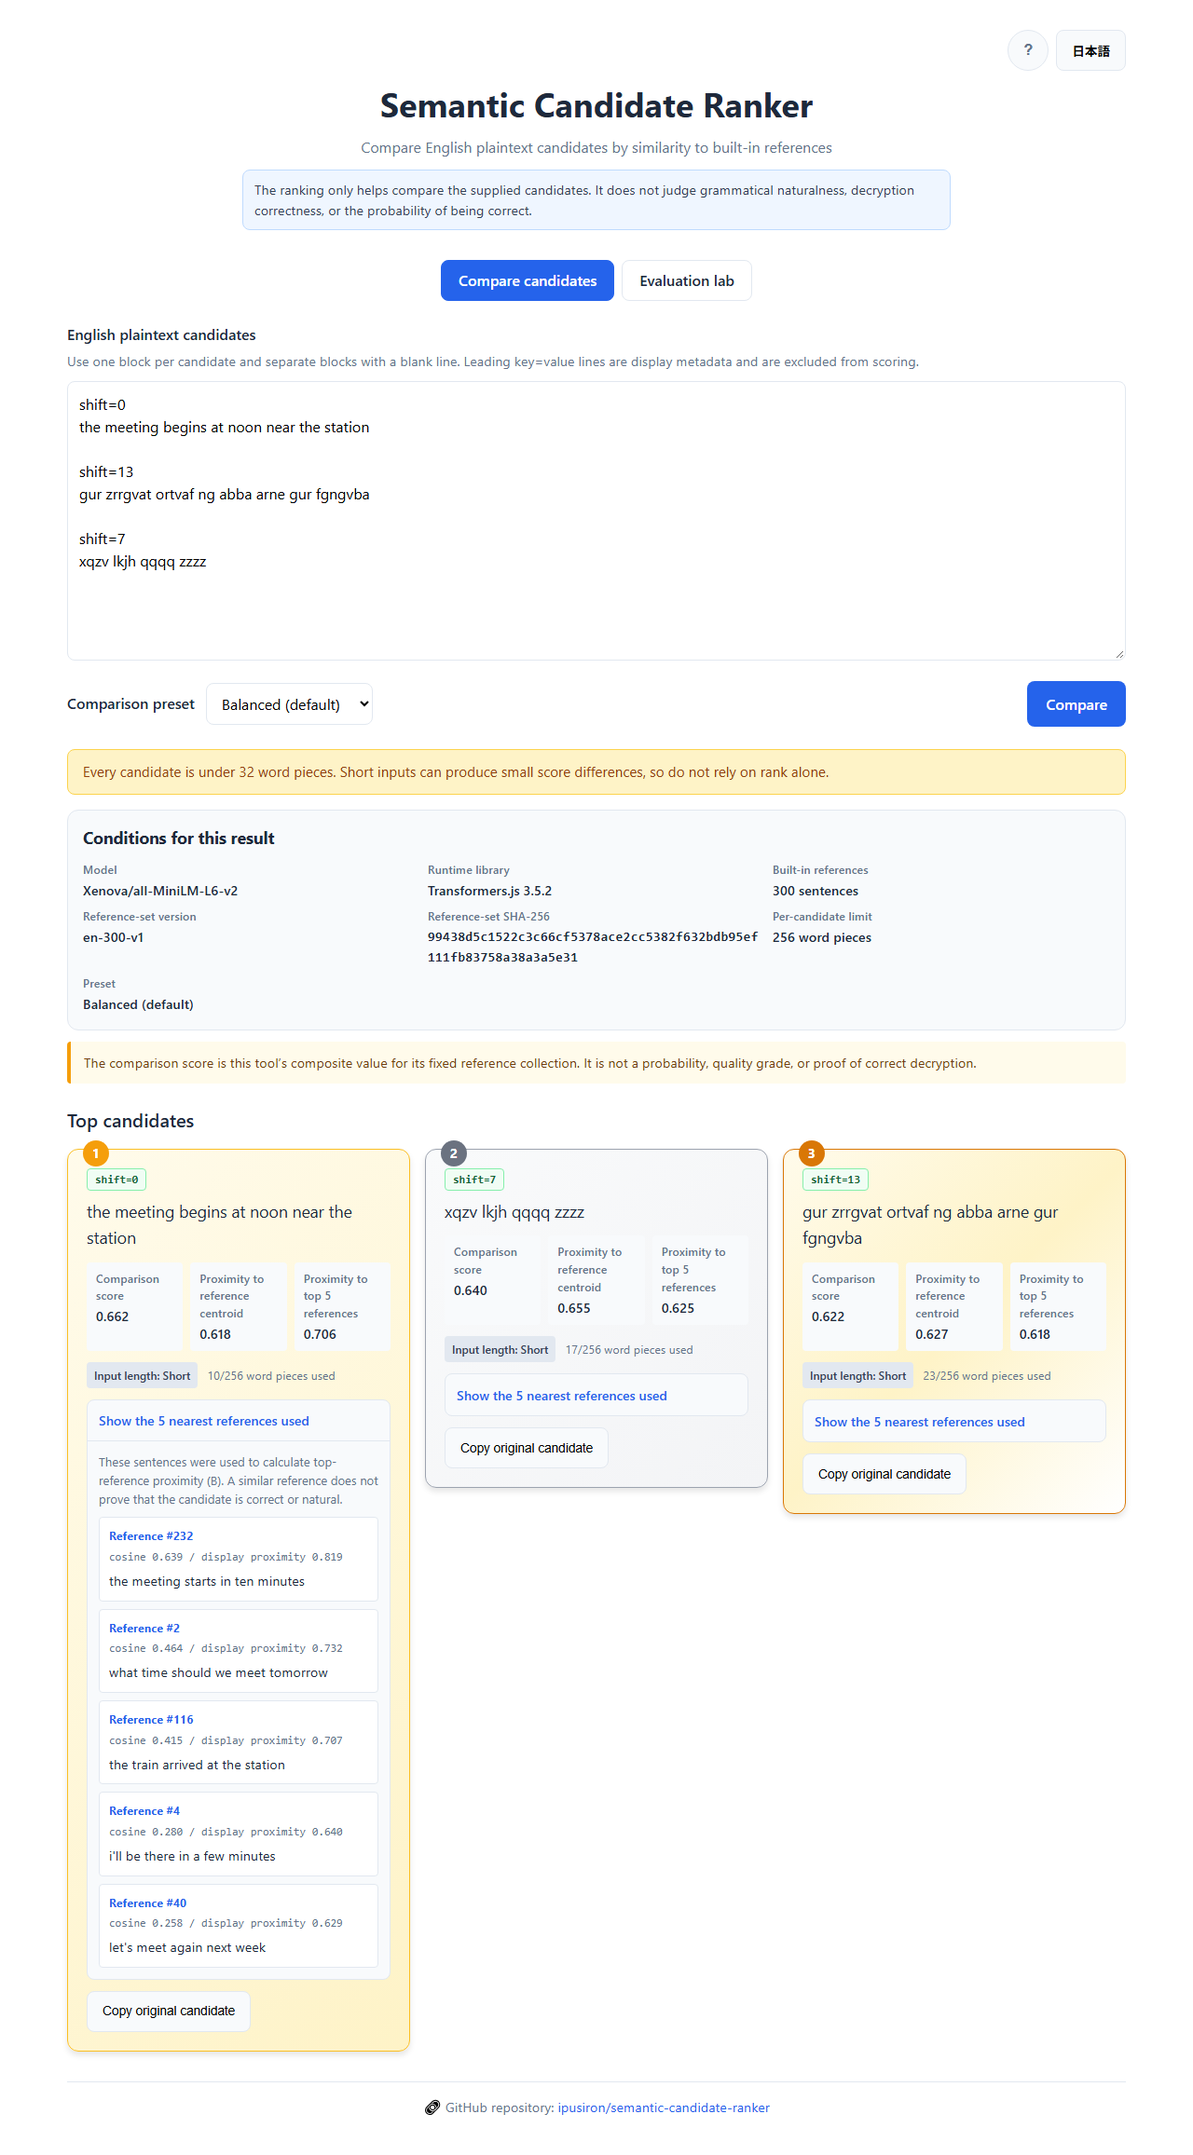
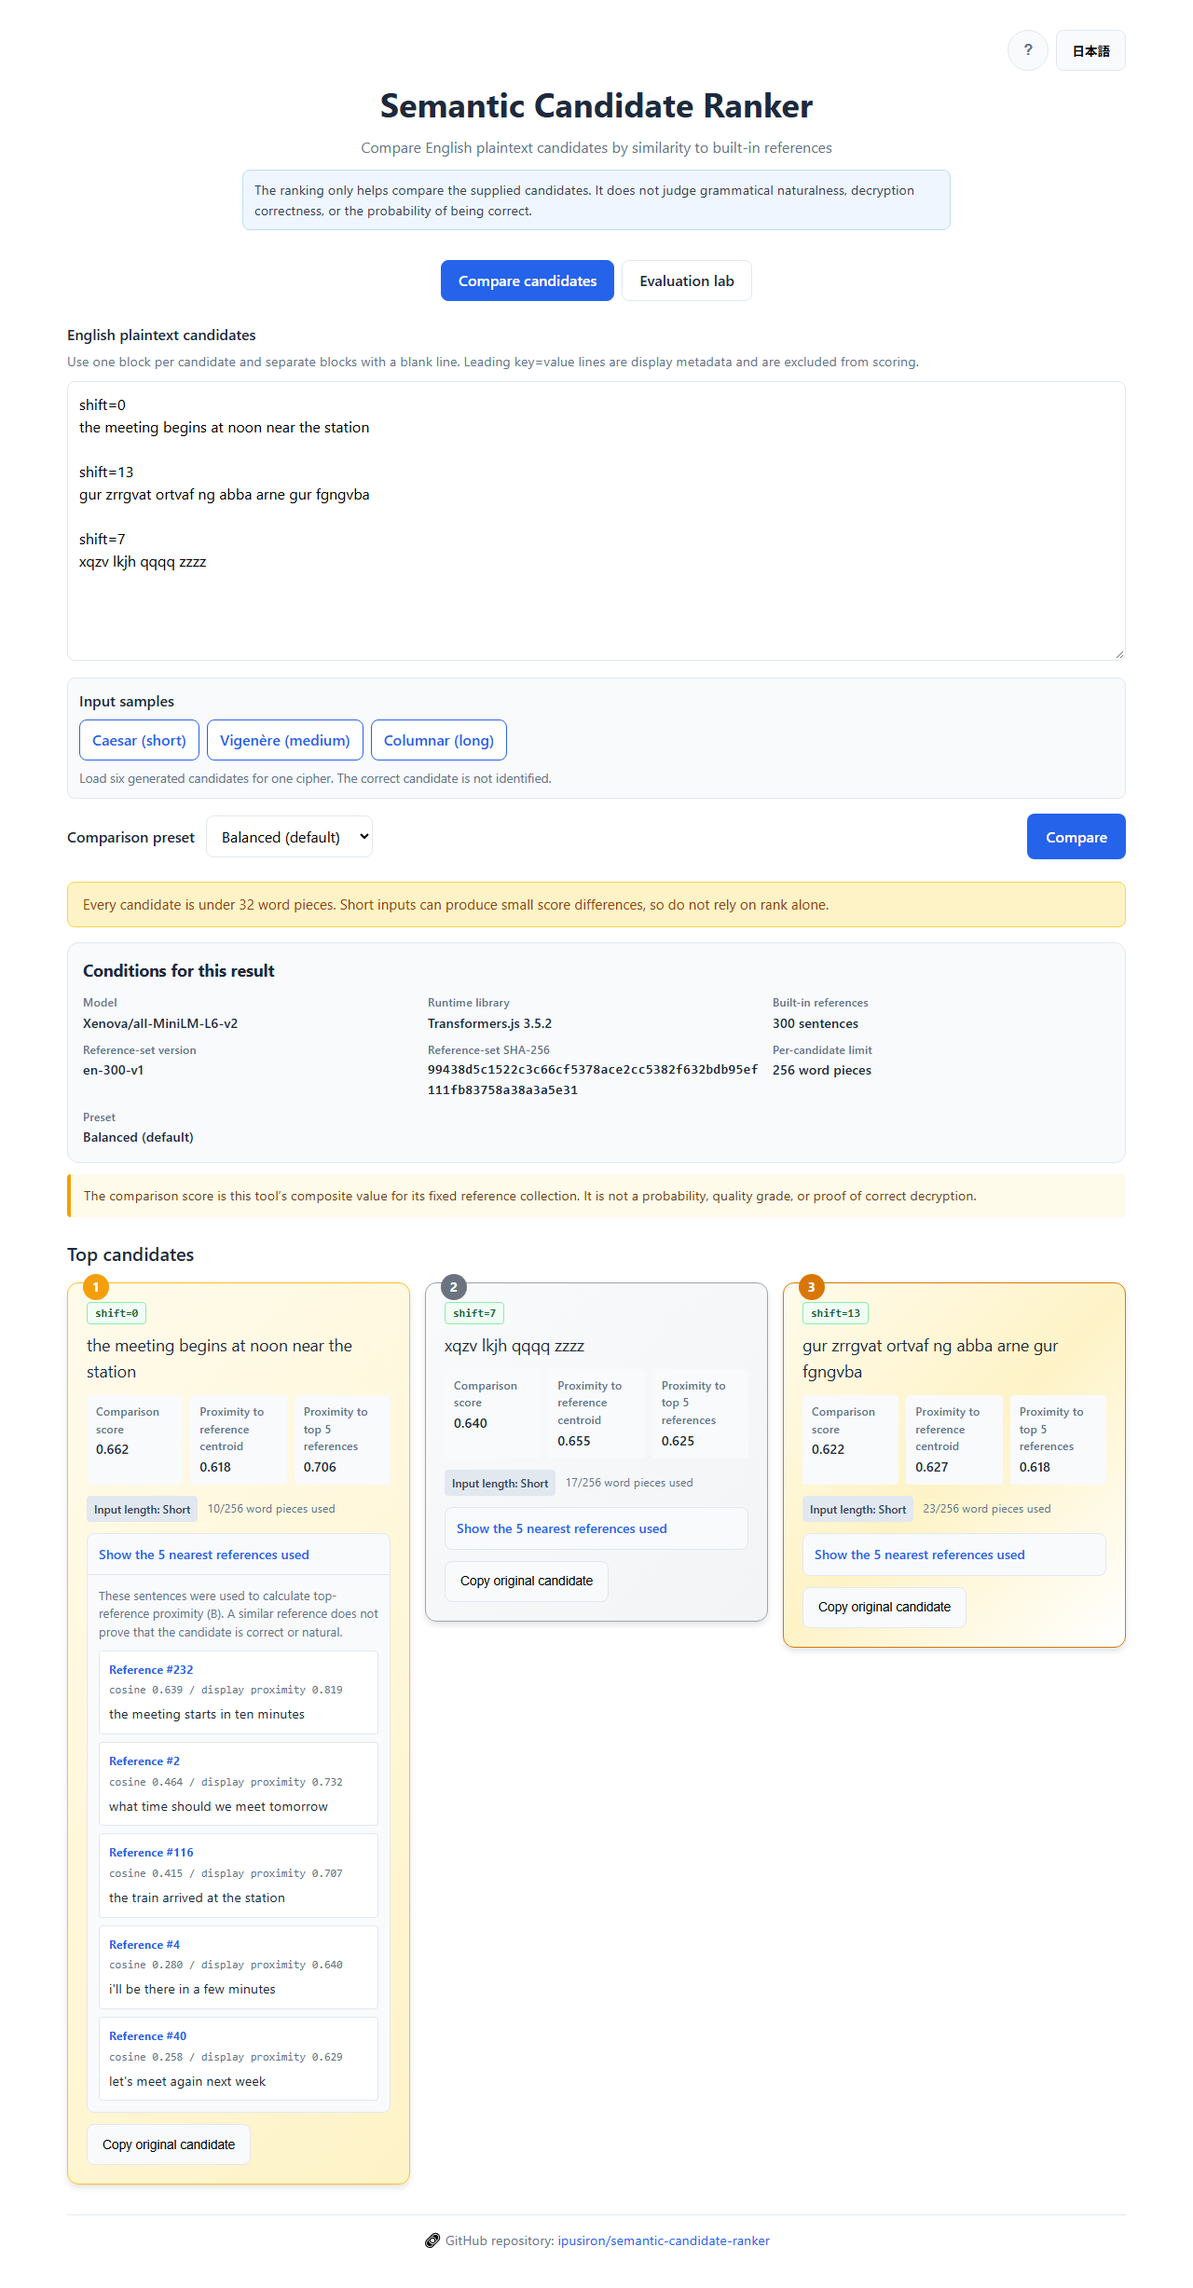
Day110: 英語候補の入力サンプルを追加

diff --git a/js/ui.js b/js/ui.js
@@ -3,6 +3,7 @@
  */
 
 import { t, getCurrentLang, setLang, initLang } from './i18n.js';
+import { getInputSample } from './input-samples.js';
 
 const elements = {};
 let lastRender = null;
@@ -17,7 +18,9 @@ let previousFocus = null;
 
 const elementIds = [
     'helpBtn', 'langToggle', 'title', 'subtitle', 'scopeNote', 'candidatesLabel',
-    'inputHint', 'candidateInput', 'presetLabel', 'presetSelect', 'runBtn',
+    'inputHint', 'candidateInput', 'inputSamplesLabel', 'inputSamplesHint',
+    'inputSampleCaesar', 'inputSampleVigenere', 'inputSampleColumnar',
+    'presetLabel', 'presetSelect', 'runBtn',
     'cancelBtn', 'messages', 'progress', 'slowWarning', 'results', 'resultContext',
     'scoreNotice', 'topResultsTitle', 'topResults', 'allResultsBlock',
     'allResultsTitle', 'allResults', 'offlineIndicator', 'githubText', 'helpModal',
@@ -55,6 +58,9 @@ export function initUI() {
     elements.modalBackdrop?.addEventListener('click', closeHelpModal);
     elements.langToggle?.addEventListener('click', toggleLanguage);
     elements.candidateInput?.addEventListener('input', invalidateResults);
+    for (const button of document.querySelectorAll('[data-input-sample]')) {
+        button.addEventListener('click', () => loadInputSample(button.dataset.inputSample));
+    }
     elements.presetSelect?.addEventListener('change', invalidateResults);
     elements.compareTab?.addEventListener('click', () => switchTab('compare'));
     elements.evaluationTab?.addEventListener('click', () => switchTab('evaluation'));
@@ -170,6 +176,21 @@ const presetTranslationKeys = {
     top7: 'presetTop7'
 };
 
+const inputSampleTranslationKeys = {
+    'caesar-short': 'inputSampleCaesar',
+    'vigenere-medium': 'inputSampleVigenere',
+    'columnar-long': 'inputSampleColumnar'
+};
+
+function loadInputSample(sampleId) {
+    const sample = getInputSample(sampleId);
+    if (!sample || !elements.candidateInput) return;
+    elements.candidateInput.value = sample.input;
+    elements.candidateInput.dispatchEvent(new Event('input', { bubbles: true }));
+    showMessage({ key: 'inputSampleLoaded', params: { count: sample.candidateCount } }, 'info');
+    elements.candidateInput.focus();
+}
+
 function updateUILanguage() {
     const lang = getCurrentLang();
     document.documentElement.lang = lang;
@@ -183,7 +204,9 @@ function updateUILanguage() {
 
     const textBindings = {
         title: 'title', subtitle: 'subtitle', scopeNote: 'scopeNote',
-        candidatesLabel: 'candidatesLabel', inputHint: 'inputHint', presetLabel: 'presetLabel',
+        candidatesLabel: 'candidatesLabel', inputHint: 'inputHint',
+        inputSamplesLabel: 'inputSamplesLabel', inputSamplesHint: 'inputSamplesHint',
+        presetLabel: 'presetLabel',
         runBtn: 'runButton', cancelBtn: 'cancelButton', slowWarning: 'slowWarning',
         topResultsTitle: 'topResultsTitle', allResultsTitle: 'allResultsTitle',
         scoreNotice: 'scoreNotice', githubText: 'githubText', offlineIndicator: 'offline',
@@ -215,6 +238,9 @@ function updateUILanguage() {
         for (const option of elements.presetSelect.options) {
             option.textContent = t(presetTranslationKeys[option.value]);
         }
+    }
+    for (const button of document.querySelectorAll('[data-input-sample]')) {
+        button.textContent = t(inputSampleTranslationKeys[button.dataset.inputSample]);
     }
 
     elements.progress?.querySelectorAll('.step-label').forEach((label, index) => {
@@ -355,6 +381,7 @@ export function showProcessing(mode = 'compare') {
     elements.evaluationRunBtn.hidden = evaluationMode;
     elements.evaluationCancelBtn.hidden = !evaluationMode;
     elements.candidateInput.disabled = true;
+    for (const button of document.querySelectorAll('[data-input-sample]')) button.disabled = true;
     elements.presetSelect.disabled = true;
     elements.evaluationCaseSelect.disabled = true;
     elements.perturbationTypeSelect.disabled = true;
@@ -381,6 +408,7 @@ export function showIdle() {
     elements.evaluationRunBtn.hidden = false;
     elements.evaluationCancelBtn.hidden = true;
     elements.candidateInput.disabled = false;
+    for (const button of document.querySelectorAll('[data-input-sample]')) button.disabled = false;
     elements.presetSelect.disabled = false;
     elements.evaluationCaseSelect.disabled = false;
     elements.perturbationTypeSelect.disabled = false;

diff --git a/js/i18n.js b/js/i18n.js
@@ -10,6 +10,12 @@ const translations = {
         candidatesLabel: '英語の平文候補',
         inputHint: '1候補を1ブロックとして、空行で区切ります。先頭の key=value 行は表示用メタデータとして評価から除外します。',
         placeholder: '候補を空行で区切って入力してください。\n\n例:\nthis is the first candidate\n\nthis is the second candidate\n\nthis is the third candidate',
+        inputSamplesLabel: '入力サンプル',
+        inputSamplesHint: '暗号方式ごとに生成済みの6候補を入力します。正解は表示しません。',
+        inputSampleCaesar: 'Caesar（短文）',
+        inputSampleVigenere: 'Vigenère（中程度）',
+        inputSampleColumnar: '列転置（長文）',
+        inputSampleLoaded: '{count}件の候補を入力しました。「比較する」を押すとモデルの読み込みと比較を始めます。',
         presetLabel: '比較プリセット',
         presetBalanced: 'バランス（既定）',
         presetCentroid: '参照重心寄り',
@@ -177,6 +183,12 @@ const translations = {
         candidatesLabel: 'English plaintext candidates',
         inputHint: 'Use one block per candidate and separate blocks with a blank line. Leading key=value lines are display metadata and are excluded from scoring.',
         placeholder: 'Enter candidates separated by blank lines.\n\nExample:\nthis is the first candidate\n\nthis is the second candidate\n\nthis is the third candidate',
+        inputSamplesLabel: 'Input samples',
+        inputSamplesHint: 'Load six generated candidates for one cipher. The correct candidate is not identified.',
+        inputSampleCaesar: 'Caesar (short)',
+        inputSampleVigenere: 'Vigenère (medium)',
+        inputSampleColumnar: 'Columnar (long)',
+        inputSampleLoaded: '{count} candidates loaded. Select “Compare” to load the model and start comparison.',
         presetLabel: 'Comparison preset',
         presetBalanced: 'Balanced (default)',
         presetCentroid: 'Reference centroid',

diff --git a/test/input-samples.test.js b/test/input-samples.test.js
@@ -1,0 +1,40 @@
+import test from 'node:test';
+import assert from 'node:assert/strict';
+
+import { EVALUATION_CASES } from '../js/evaluation-cases.js';
+import { INPUT_SAMPLES, getInputSample } from '../js/input-samples.js';
+import { normalizeText, parseCandidates } from '../js/normalizer.js';
+
+test('input samples expose three representative six-candidate sets without answer labels', () => {
+    assert.deepEqual(
+        INPUT_SAMPLES.map(sample => sample.id),
+        ['caesar-short', 'vigenere-medium', 'columnar-long']
+    );
+
+    for (const sample of INPUT_SAMPLES) {
+        const parsed = parseCandidates(sample.input);
+        assert.equal(sample.candidateCount, 6);
+        assert.equal(parsed.length, 6);
+        assert.ok(parsed.every(candidate => candidate.meta.method && candidate.meta.setting));
+        assert.doesNotMatch(sample.input, /candidate_id=|correct=|wrong=/i);
+    }
+});
+
+test('sample plaintexts and settings come from the fixed evaluation cases', () => {
+    for (const sample of INPUT_SAMPLES) {
+        const sourceCase = EVALUATION_CASES.find(item => item.id === sample.id);
+        const parsed = parseCandidates(sample.input);
+        assert.ok(sourceCase);
+        assert.deepEqual(
+            parsed.map(candidate => candidate.evalText),
+            sourceCase.candidates.map(candidate => normalizeText(candidate.text))
+        );
+        assert.deepEqual(parsed.map(candidate => candidate.meta.setting), sourceCase.candidates.map(candidate => candidate.setting));
+    }
+});
+
+test('input sample definitions are immutable and unknown IDs return null', () => {
+    assert.ok(Object.isFrozen(INPUT_SAMPLES));
+    assert.ok(INPUT_SAMPLES.every(sample => Object.isFrozen(sample)));
+    assert.equal(getInputSample('missing'), null);
+});

diff --git a/js/input-samples.js b/js/input-samples.js
@@ -1,0 +1,45 @@
+/**
+ * Ready-to-use candidate sets for the normal comparison view.
+ *
+ * Samples reuse three cases from the independently versioned evaluation set,
+ * but omit the correct/wrong labels. They are examples for operating the UI,
+ * not answer keys or performance claims.
+ */
+
+import { EVALUATION_CASES } from './evaluation-cases.js';
+
+const sampleDefinitions = [
+    { id: 'caesar-short', caseId: 'caesar-short' },
+    { id: 'vigenere-medium', caseId: 'vigenere-medium' },
+    { id: 'columnar-long', caseId: 'columnar-long' }
+];
+
+function serializeCase(caseDefinition) {
+    return caseDefinition.candidates.map(candidate => [
+        `method=${caseDefinition.family}`,
+        `setting=${candidate.setting}`,
+        candidate.text
+    ].join('\n')).join('\n\n');
+}
+
+function deepFreeze(value) {
+    if (value && typeof value === 'object' && !Object.isFrozen(value)) {
+        Object.freeze(value);
+        for (const item of Object.values(value)) deepFreeze(item);
+    }
+    return value;
+}
+
+export const INPUT_SAMPLES = deepFreeze(sampleDefinitions.map(definition => {
+    const caseDefinition = EVALUATION_CASES.find(item => item.id === definition.caseId);
+    if (!caseDefinition) throw new Error(`Unknown input sample case: ${definition.caseId}`);
+    return {
+        id: definition.id,
+        candidateCount: caseDefinition.candidates.length,
+        input: serializeCase(caseDefinition)
+    };
+}));
+
+export function getInputSample(sampleId) {
+    return INPUT_SAMPLES.find(sample => sample.id === sampleId) || null;
+}

diff --git a/style/style.css b/style/style.css
@@ -544,6 +544,56 @@ a:focus-visible {
     opacity: 0.7;
 }
 
+.input-samples {
+    margin-top: 12px;
+    padding: 12px;
+    border: 1px solid var(--color-border);
+    border-radius: var(--radius-md);
+    background-color: var(--color-bg-secondary);
+}
+
+.input-samples-label {
+    display: block;
+    margin-bottom: 8px;
+    font-weight: 600;
+    color: var(--color-text);
+}
+
+.input-sample-buttons {
+    display: flex;
+    flex-wrap: wrap;
+    gap: 8px;
+}
+
+.input-sample-btn {
+    min-height: 44px;
+    padding: 9px 13px;
+    border: 1px solid var(--color-primary);
+    border-radius: var(--radius-md);
+    background-color: var(--color-bg);
+    color: var(--color-primary);
+    font: inherit;
+    font-weight: 600;
+    cursor: pointer;
+    transition: background-color var(--transition), color var(--transition);
+}
+
+.input-sample-btn:hover:not(:disabled) {
+    background-color: var(--color-primary);
+    color: white;
+}
+
+.input-sample-btn:disabled {
+    opacity: 0.6;
+    cursor: not-allowed;
+}
+
+.input-samples-hint {
+    margin: 8px 0 0;
+    color: var(--color-text-secondary);
+    font-size: 0.85rem;
+}
+
 .controls {
     display: flex;
     flex-direction: column;

diff --git a/index.html b/index.html
@@ -62,6 +62,16 @@
                 rows="10"
             ></textarea>
 
+            <div class="input-samples" aria-labelledby="inputSamplesLabel">
+                <span id="inputSamplesLabel" class="input-samples-label">入力サンプル</span>
+                <div class="input-sample-buttons">
+                    <button id="inputSampleCaesar" class="input-sample-btn" type="button" data-input-sample="caesar-short">Caesar（短文）</button>
+                    <button id="inputSampleVigenere" class="input-sample-btn" type="button" data-input-sample="vigenere-medium">Vigenère（中程度）</button>
+                    <button id="inputSampleColumnar" class="input-sample-btn" type="button" data-input-sample="columnar-long">列転置（長文）</button>
+                </div>
+                <p id="inputSamplesHint" class="input-samples-hint">暗号方式ごとに生成済みの6候補を入力します。正解は表示しません。</p>
+            </div>
+
             <div class="controls">
                 <div class="preset-selector">
                     <label for="presetSelect" id="presetLabel">比較プリセット</label>

diff --git a/test/documentation.test.js b/test/documentation.test.js
@@ -36,6 +36,8 @@ test('Japanese and English READMEs agree on critical numeric contracts and links
     assert.match(en, /\[日本語版README\]\(README\.md\)/);
     assert.match(ja, /真正性の証明や署名ではありません/);
     assert.match(en, /not a third-party authenticity proof or signature/);
+    assert.match(ja, /入力サンプル/);
+    assert.match(en, /input sample/i);
 });
 
 test('documentation does not claim calibrated labels, confidence, or guaranteed offline use', async () => {

diff --git a/test/html-security.test.js b/test/html-security.test.js
@@ -11,6 +11,9 @@ test('HTML declares responsive bilingual controls and accurate preset values', a
     for (const value of ['balanced', 'centroid', 'neighbors', 'top3', 'top7']) {
         assert.match(html, new RegExp(`value="${value}"`));
     }
+    for (const sampleId of ['caesar-short', 'vigenere-medium', 'columnar-long']) {
+        assert.match(html, new RegExp(`data-input-sample="${sampleId}"`));
+    }
     assert.doesNotMatch(html, /http-equiv="X-Content-Type-Options"/i);
 });
 

diff --git a/README.en.md b/README.en.md
@@ -49,6 +49,7 @@ When the required files are not cached, the browser needs an internet connection
 ### It can
 
 - Rank up to 200 English plaintext candidates by semantic similarity to the built-in references
+- Load six generated candidates immediately from Caesar, Vigenère, or columnar input samples
 - Show proximity to the reference centroid and proximity to the nearest references separately from the composite score
 - Expand each candidate to inspect the reference sentences, collection indexes, and individual cosine values used for top-k proximity
 - Record a reference-set version and SHA-256 fingerprint with the result conditions
@@ -71,13 +72,13 @@ When the required files are not cached, the browser needs an internet connection
 ## 📖 Usage
 
 1. Produce English plaintext candidates with another solver or through manual analysis.
-2. Enter one candidate per block and separate blocks with a blank line.
+2. Enter one candidate per block and separate blocks with a blank line. For a quick trial, select a Caesar, Vigenère, or columnar input sample.
 3. Choose a comparison preset and select “Compare.”
 4. Inspect both proximity components, the input length, and any truncation notice rather than relying on rank alone.
 5. Expand “nearest references used” to inspect the sentences and individual cosine values that contributed to B.
 6. Review the leading candidates against the cipher method, key, and context.
 
-Changing the input or preset invalidates the displayed result. Changing the interface language redraws the same computed result without running the model again.
+An input sample only fills the candidate field and does not identify the correct candidate. Model retrieval and comparison begin after you select “Compare.” Changing the input or preset invalidates the displayed result. Changing the interface language redraws the same computed result without running the model again.
 
 ### Evaluation lab
 
@@ -279,6 +280,7 @@ semantic-candidate-ranker/
 │   ├── evaluation-cases.js    # Fixed 18-case set and fingerprint
 │   ├── evaluator.js           # Top-1, Top-3, MRR, and delta aggregation
 │   ├── i18n.js                # Japanese and English messages
+│   ├── input-samples.js       # Three normal-comparison input samples
 │   ├── normalizer.js          # Input parsing and normalization
 │   ├── perturbations.js       # Eight deterministic changes
 │   ├── reference-sentences.js # 300 fixed references

diff --git a/docs/UI_SPEC.md b/docs/UI_SPEC.md
@@ -4,7 +4,7 @@
 
 1. Header: help, language switch, title, subtitle, scope warning
 2. Centered tab list: Compare candidates, Evaluation lab
-3. Compare panel: input, preset, processing status, execution conditions, top cards, and remaining candidates
+3. Compare panel: input, three input samples, preset, processing status, execution conditions, top cards, and remaining candidates
 4. Evaluation panel: dataset identity, run/cancel, metrics, grouped results, case details, and perturbation comparison
 5. Footer: GitHub link and browser-offline indicator
 
@@ -24,8 +24,10 @@ The tab list follows the ARIA tab pattern. Left/Right Arrow, Home, and End move 
 ## Input State
 
 - Textarea and preset remain editable while idle
+- Three sample buttons load six candidates from the Caesar-short, Vigenère-medium, or columnar-long evaluation case without identifying the correct candidate
+- Loading a sample replaces the textarea, invalidates stale results, and does not start a model download; Compare remains a separate explicit action
 - Compare starts processing; Cancel replaces Compare during processing
-- Input, preset, and language controls are disabled while processing
+- Input, sample, preset, and language controls are disabled while processing
 - Input or preset changes hide stale results and messages
 
 The evaluation controls are independent of the comparison input. Starting either operation disables both tabs and other conflicting controls until completion or cancellation.

diff --git a/docs/SPEC.md b/docs/SPEC.md
@@ -11,6 +11,8 @@ Compare English plaintext candidates by semantic similarity to a fixed collectio
 - Line breaks inside a candidate are allowed and become spaces during normalization
 - Input and reference language: English
 
+Three ready-to-use input samples load the six generated candidates from the fixed Caesar-short, Vigenère-medium, and columnar-long evaluation cases. Sample serialization includes only `method` and `setting` metadata plus candidate text; it does not expose the correct/wrong labels. Loading a sample replaces the comparison textarea and invalidates any previous result, but it does not start model retrieval or comparison.
+
 ## Metadata Exclusion
 
 Consecutive `key=value` lines at the start of each block are metadata.
